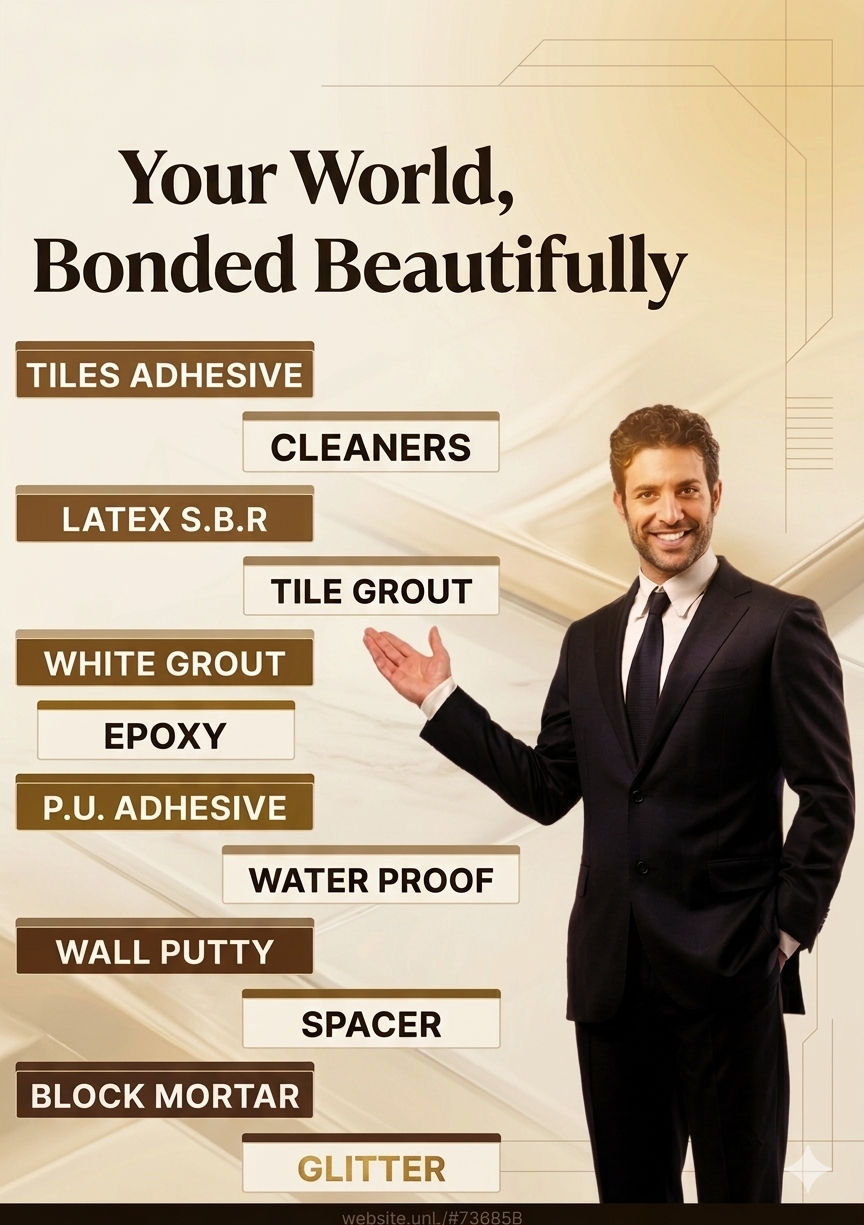
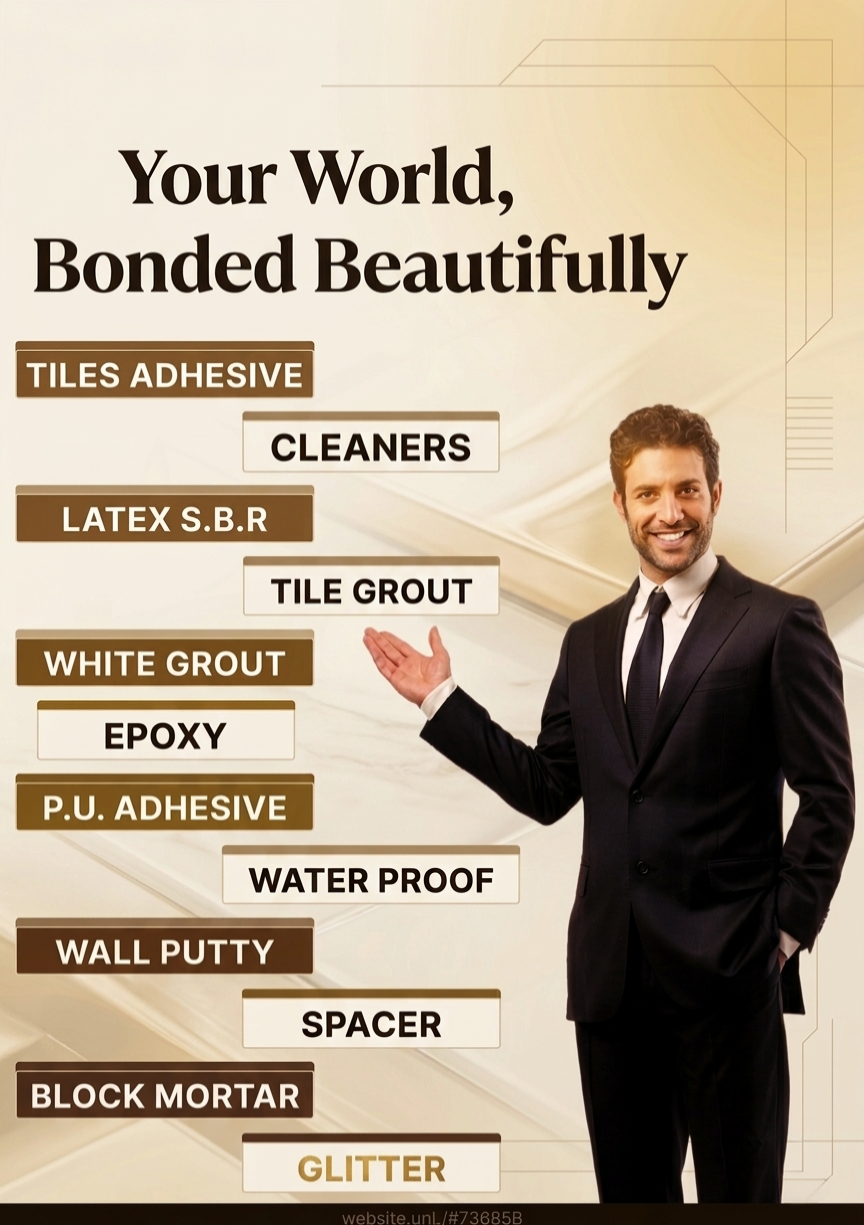
Photo changes

diff --git a/src/pages/Products.tsx b/src/pages/Products.tsx
@@ -6,9 +6,9 @@ import pf22 from "@/assets/pf22.png";
 import pf44 from "@/assets/pf44.png";
 import pf55 from "@/assets/pf55.png";
 import pf111 from "@/assets/pf111.png";
-import tileGrout from "@/assets/tile-grout-bucket.jpeg";
-import epoxyGrout from "@/assets/epoxy-grout-label.jpeg";
-import whiteGrout from "@/assets/white-grout-1kg.jpeg";
+import tileGrout from "@/assets/tile-grout-bucket.png";
+import epoxyGrout from "@/assets/epoxy-grout-label.png";
+import whiteGrout from "@/assets/white-grout-1kg.png";
 
 type Product = {
   id: string;